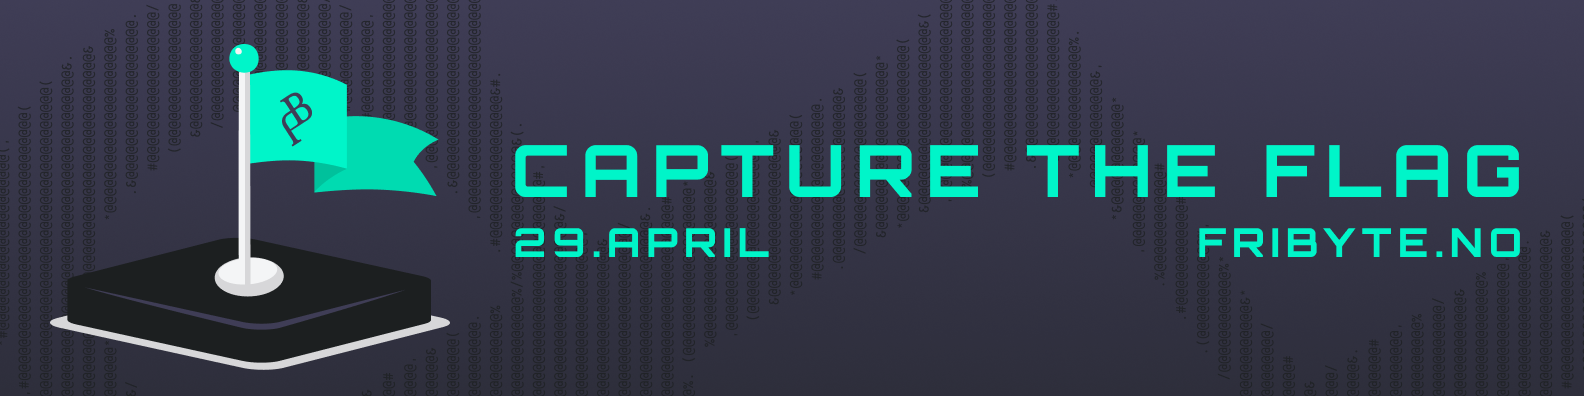
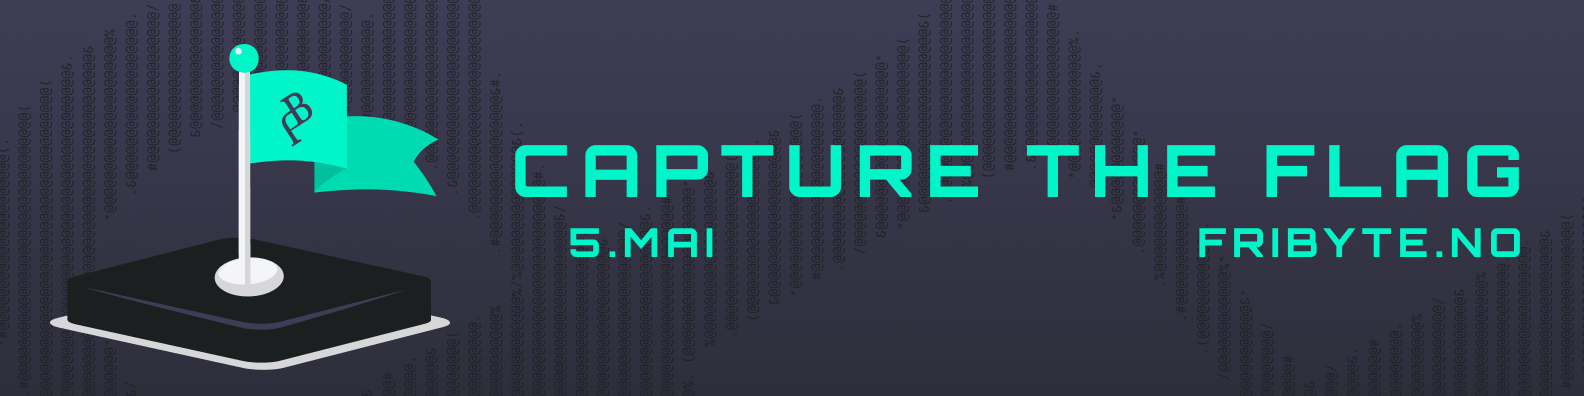
Date update, again.

Changed region(s): [[0.3093, 0.5758, 0.4949, 0.6667]]

diff --git a/content/nyheter/2026-04-10-ctf26/index.md b/content/nyheter/2026-04-10-ctf26/index.md
@@ -1,5 +1,5 @@
 +++
-title = "CTF 2026 29.April"
+title = "CTF 2026 5. Mai"
 date = 2026-04-10
 description = "friByte sin årlige CTF 2026"
 authors = ["Domas Gostautas"]
@@ -9,7 +9,7 @@ categories = ["Nyheter"]
 
 <img src="/nyheter/ctf26/CTF26LINKEDINBANNER.png" width="100%"/> <br>
 
-Hei, og velkommen til **friByte** sin årlige CTF konkurranse den **29. April kl. 17-20**!
+Hei, og velkommen til **friByte** sin årlige CTF konkurranse den **5. Mai kl. 17-20**!
 
 Nå i **2026** markere vi vår femte årlige CTF, med samme format hvor man enten går alene eller setter seg i lag og løser oppgaver for å oppnå flest mulig poeng og vinne!
 
